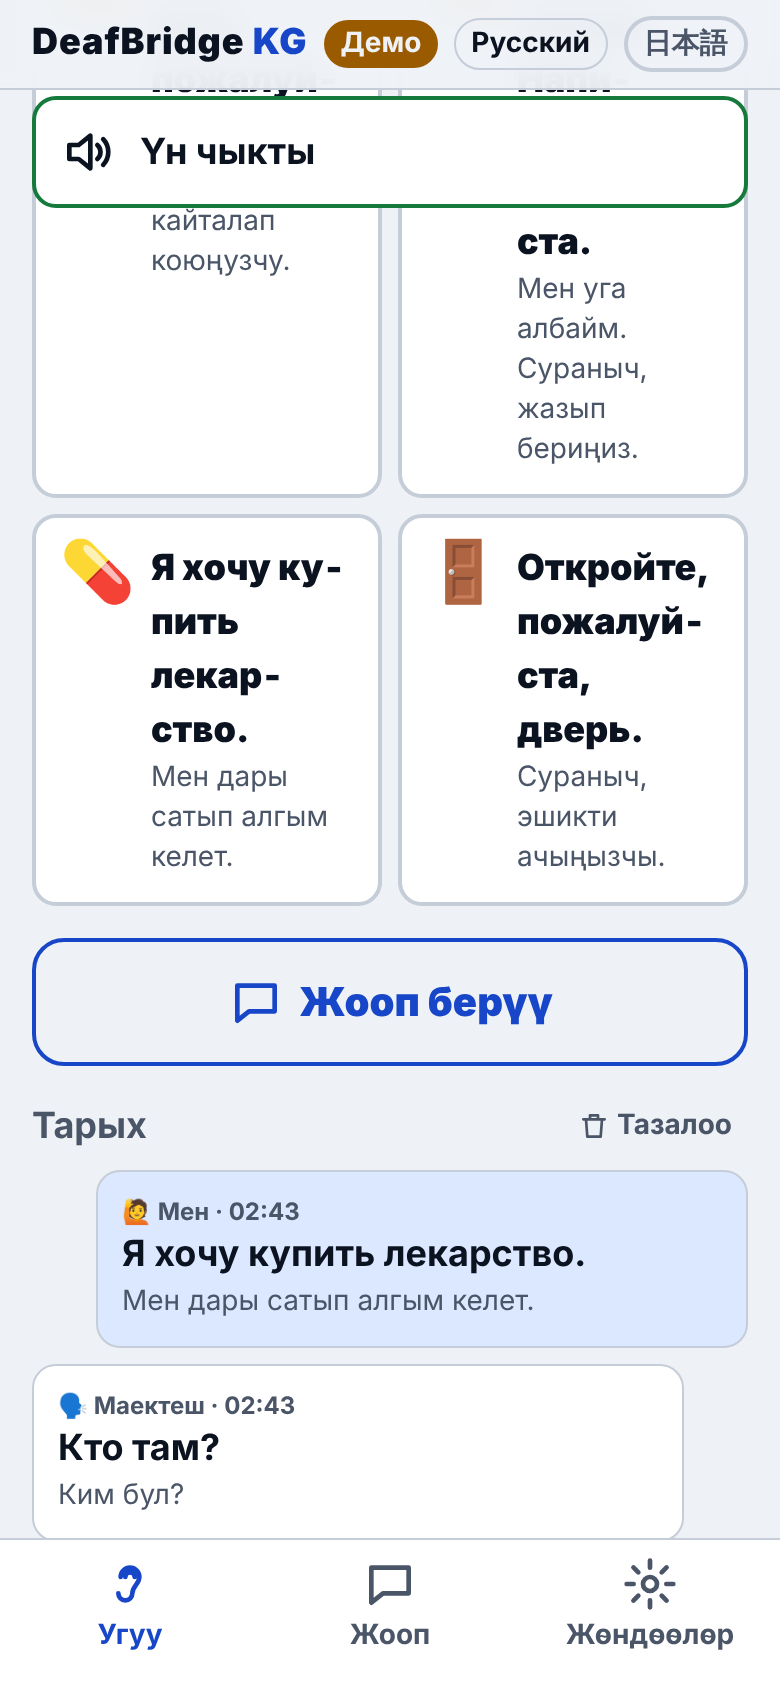
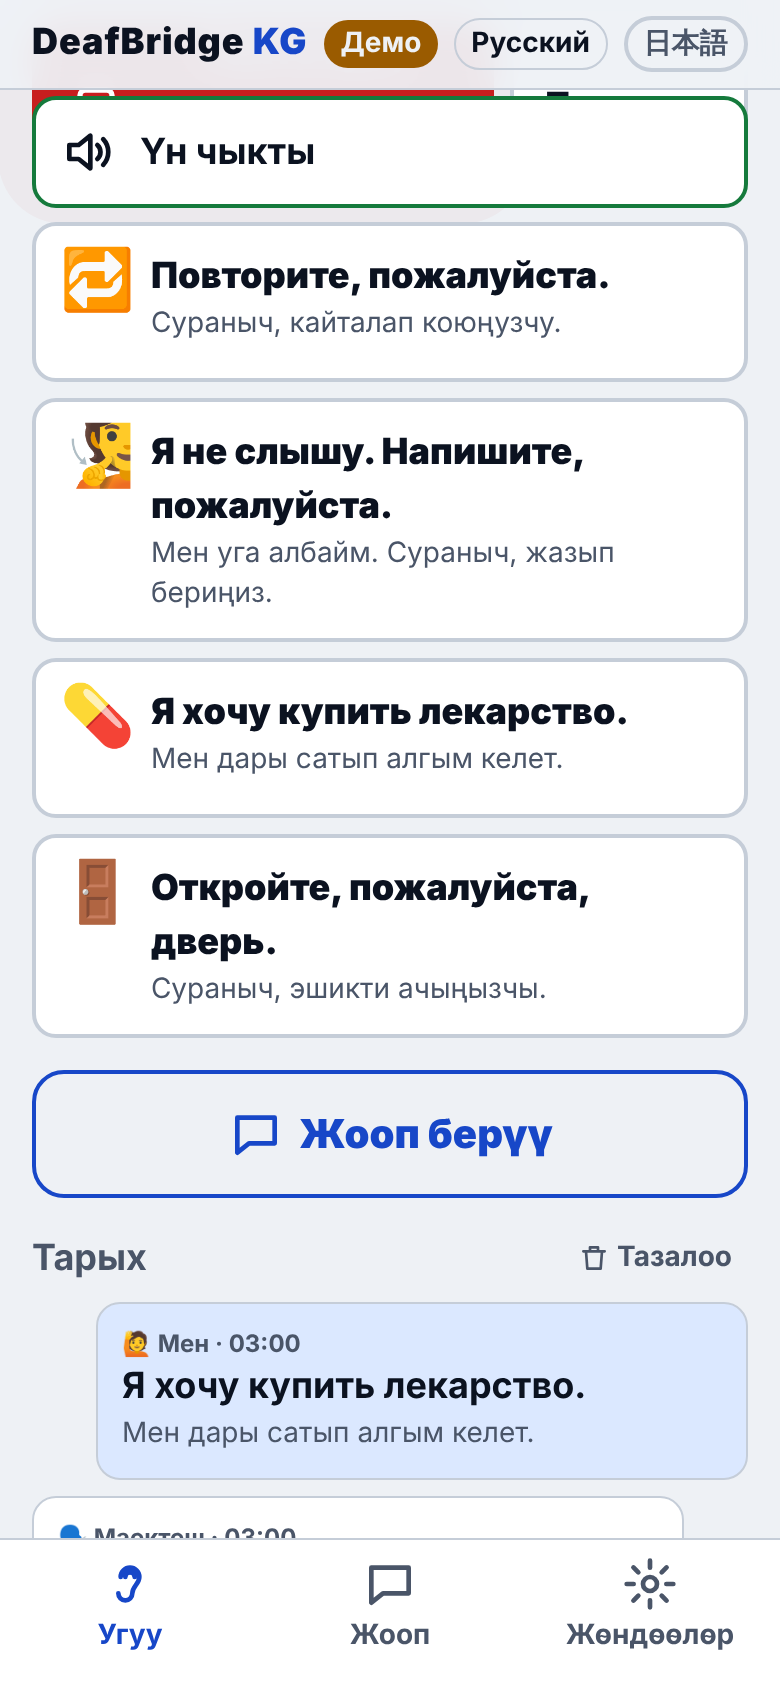
Add single-file demo build and improve phone-width readability
- scripts/build-demo.mjs bundles the real UI into one HTML file with the
  microphone and speech API replaced by a simulated listener, so the app
  can be tried in a browser without a server or microphone
- Quick replies use one column on phone-width screens; no mid-word
  hyphenation
- Theme tokens also honor an explicit data-theme attribute
- Mock sample sentences moved to a shared module

Claude-Session: https://claude.ai/code/session_01MF86TwLKCSnZg1bD2yCpDd

diff --git a/deafbridge-kg/src/demo/useDemoListener.ts b/deafbridge-kg/src/demo/useDemoListener.ts
@@ -1,0 +1,81 @@
+"use client";
+
+/**
+ * お試しページ用の疑似マイク。
+ * claude.ai 上のページではマイクが使えないため、「聞き取り中」になると
+ * 数秒ごとに「相手が話す → 話し終わる」を自動で再現する。
+ * 返り値の形は本物の useListener と同じ。
+ */
+import { useCallback, useEffect, useRef, useState } from "react";
+import type { ListenerOptions, ListenerState } from "../lib/client/useListener";
+
+export type { ListenerOptions, ListenerState };
+
+const WAIT_MS = 3000; // 相手が話し始めるまで
+const SPEAK_MS = 1800; // 相手が話している長さ
+const TICK = 80;
+
+export function useListener(opts: ListenerOptions) {
+  const [state, setState] = useState<ListenerState>("idle");
+  const [level, setLevel] = useState(0);
+  const [inSpeech, setInSpeech] = useState(false);
+  const [elapsedMs, setElapsedMs] = useState(0);
+  const optsRef = useRef(opts);
+  useEffect(() => {
+    optsRef.current = opts;
+  });
+  const timer = useRef<number | null>(null);
+  const segStart = useRef(0);
+
+  const clear = () => {
+    if (timer.current !== null) window.clearInterval(timer.current);
+    timer.current = null;
+  };
+
+  const run = useCallback(() => {
+    clear();
+    segStart.current = performance.now();
+    let spoke = false;
+    timer.current = window.setInterval(() => {
+      const t = performance.now() - segStart.current;
+      setElapsedMs(t);
+      const speaking = t > WAIT_MS && t < WAIT_MS + SPEAK_MS;
+      if (speaking && !spoke) {
+        spoke = true;
+        optsRef.current.onSpeechStart?.();
+      }
+      setInSpeech(speaking);
+      setLevel(speaking ? 0.08 + Math.random() * 0.12 : 0.0003 + Math.random() * 0.0005);
+      if (t >= WAIT_MS + SPEAK_MS + 900) {
+        optsRef.current.onSegment(new Blob(), { hadSpeech: true, durationMs: t });
+        if (optsRef.current.continuous) {
+          segStart.current = performance.now();
+          spoke = false;
+        } else {
+          clear();
+          setState("idle");
+          setLevel(0);
+        }
+      }
+    }, TICK);
+  }, []);
+
+  const start = useCallback(async () => {
+    setState("listening");
+    run();
+  }, [run]);
+
+  const stop = useCallback((send: boolean) => {
+    const wasSpeaking = performance.now() - segStart.current > WAIT_MS;
+    clear();
+    setState("idle");
+    setLevel(0);
+    setInSpeech(false);
+    setElapsedMs(0);
+    if (send && wasSpeaking) optsRef.current.onSegment(new Blob(), { hadSpeech: true, durationMs: 0 });
+  }, []);
+
+  useEffect(() => () => clear(), []);
+
+  return { state, level, threshold: 0.03, inSpeech, elapsedMs, start, stop };
+}

diff --git a/deafbridge-kg/src/demo/demo-api.ts b/deafbridge-kg/src/demo/demo-api.ts
@@ -1,0 +1,24 @@
+/**
+ * お試しページ用：サーバーを使わず、ブラウザ内でサンプル文を返す。
+ * scripts/build-demo.mjs が "@/lib/client/api" をこのファイルに差し替える。
+ */
+import { MOCK_SAMPLES } from "../lib/mock-samples";
+import type { ConvLang, StatusResponse, TranscribeError, TranscribeResult, TransLang } from "../lib/types";
+
+let index = 0;
+
+export async function fetchStatus(): Promise<StatusResponse | null> {
+  return { provider: "mock", translation: true, accessCodeRequired: false, maxSeconds: 30 };
+}
+
+export async function transcribe(
+  _wav: Blob,
+  lang: ConvLang,
+  targets: TransLang[],
+): Promise<TranscribeResult | TranscribeError> {
+  await new Promise((r) => setTimeout(r, 700)); // 通信している感じを再現
+  const s = MOCK_SAMPLES[index++ % MOCK_SAMPLES.length];
+  const translations: Partial<Record<TransLang, string>> = {};
+  for (const t of targets) if (t !== lang) translations[t] = s[t];
+  return { ok: true, text: s[lang], confidence: 0.92, alternatives: [], translations, provider: "mock", elapsedMs: 700 };
+}

diff --git a/deafbridge-kg/src/lib/server/stt.ts b/deafbridge-kg/src/lib/server/stt.ts
@@ -13,15 +13,9 @@ export type SttProvider = {
 
 // ---------------------------------------------------------------- mock
 
-/** API 未接続時のデモ用。インターフォンでよく聞かれる文を順番に返す。 */
-export const MOCK_SAMPLES: { ru: string; ky: string; ja: string }[] = [
-  { ru: "Кто там?", ky: "Ким бул?", ja: "どなたですか？" },
-  { ru: "Что вам нужно?", ky: "Сизге эмне керек?", ja: "何が必要ですか？" },
-  { ru: "Какое лекарство?", ky: "Кайсы дары?", ja: "どの薬ですか？" },
-  { ru: "Подождите минуту.", ky: "Бир мүнөт күтө туруңуз.", ja: "少々お待ちください。" },
-  { ru: "Это стоит триста сом.", ky: "Бул үч жүз сом турат.", ja: "300ソムです。" },
-  { ru: "Рецепт есть?", ky: "Рецепт барбы?", ja: "処方箋はありますか？" },
-];
+import { MOCK_SAMPLES } from "../mock-samples";
+
+export { MOCK_SAMPLES };
 
 let mockIndex = 0;
 

diff --git a/deafbridge-kg/src/components/ListenScreen.tsx b/deafbridge-kg/src/components/ListenScreen.tsx
@@ -196,7 +196,7 @@ export default function ListenScreen({
       )}
 
       {/* ---- すぐ使う返答 ---- */}
-      <div className={`grid gap-2 ${settings.fontSize === "xlarge" ? "grid-cols-1" : "grid-cols-2"}`}>
+      <div className={`grid gap-2 ${settings.fontSize === "xlarge" ? "grid-cols-1" : "grid-cols-1 min-[440px]:grid-cols-2"}`}>
         {QUICK_IDS.map((id) => {
           const p = findPhrase(id)!;
           return (
@@ -209,7 +209,7 @@ export default function ListenScreen({
               <span className="text-3xl leading-none" aria-hidden="true">
                 {p.icon}
               </span>
-              <span className="flex min-w-0 flex-col [overflow-wrap:anywhere] hyphens-auto">
+              <span className="flex min-w-0 flex-col [overflow-wrap:break-word]">
                 <span className="text-body font-black leading-tight" lang={lang}>
                   {phraseText(p, lang)}
                 </span>

diff --git a/deafbridge-kg/src/lib/mock-samples.ts b/deafbridge-kg/src/lib/mock-samples.ts
@@ -1,0 +1,9 @@
+/** API 未接続時のデモ用。インターフォンでよく聞かれる文を順番に返す。 */
+export const MOCK_SAMPLES: { ru: string; ky: string; ja: string }[] = [
+  { ru: "Кто там?", ky: "Ким бул?", ja: "どなたですか？" },
+  { ru: "Что вам нужно?", ky: "Сизге эмне керек?", ja: "何が必要ですか？" },
+  { ru: "Какое лекарство?", ky: "Кайсы дары?", ja: "どの薬ですか？" },
+  { ru: "Подождите минуту.", ky: "Бир мүнөт күтө туруңуз.", ja: "少々お待ちください。" },
+  { ru: "Это стоит триста сом.", ky: "Бул үч жүз сом турат.", ja: "300ソムです。" },
+  { ru: "Рецепт есть?", ky: "Рецепт барбы?", ja: "処方箋はありますか？" },
+];

diff --git a/deafbridge-kg/src/app/globals.css b/deafbridge-kg/src/app/globals.css
@@ -20,7 +20,7 @@
 }
 
 @media (prefers-color-scheme: dark) {
-  :root {
+  :root:not([data-theme="light"]) {
     --bg: #070b14;
     --surface: #121a2a;
     --surface-2: #1d2740;
@@ -36,7 +36,27 @@
     --me: #142a55;
     --ok: #4ade80;
     --warn: #fbbf24;
+    color-scheme: dark;
   }
+}
+
+:root[data-theme="dark"] {
+  --bg: #070b14;
+  --surface: #121a2a;
+  --surface-2: #1d2740;
+  --fg: #f5f7fb;
+  --muted: #a9b4c7;
+  --border: #2c3a57;
+  --accent: #5b8cff;
+  --accent-fg: #06102a;
+  --rec: #ff5a5a;
+  --rec-fg: #1a0000;
+  --them: #2a2306;
+  --them-border: #f5c400;
+  --me: #142a55;
+  --ok: #4ade80;
+  --warn: #fbbf24;
+  color-scheme: dark;
 }
 
 @theme inline {

diff --git a/deafbridge-kg/src/components/DeafBridgeApp.tsx b/deafbridge-kg/src/components/DeafBridgeApp.tsx
@@ -50,7 +50,11 @@ export default function DeafBridgeApp() {
     setOnline(navigator.onLine);
     fetchStatus().then(setStatus);
     preloadAudioManifest();
-    if ("serviceWorker" in navigator && process.env.NODE_ENV === "production") {
+    if (
+      "serviceWorker" in navigator &&
+      process.env.NODE_ENV === "production" &&
+      process.env.NEXT_PUBLIC_STATIC_DEMO !== "1"
+    ) {
       navigator.serviceWorker.register("/sw.js", { scope: "/" }).catch(() => {});
     }
     const on = () => setOnline(true);

diff --git a/deafbridge-kg/src/components/ReplyScreen.tsx b/deafbridge-kg/src/components/ReplyScreen.tsx
@@ -228,7 +228,7 @@ function PhraseRow({
         <span className="w-12 shrink-0 text-center text-4xl leading-none" aria-hidden="true">
           {icon}
         </span>
-        <span className="flex min-w-0 flex-col [overflow-wrap:anywhere] hyphens-auto">
+        <span className="flex min-w-0 flex-col [overflow-wrap:break-word]">
           <span className="text-reply font-black" lang={textLang}>
             {text}
           </span>

diff --git a/deafbridge-kg/src/demo/entry.tsx b/deafbridge-kg/src/demo/entry.tsx
@@ -1,0 +1,4 @@
+import { createRoot } from "react-dom/client";
+import DeafBridgeApp from "../components/DeafBridgeApp";
+
+createRoot(document.getElementById("root")!).render(<DeafBridgeApp />);

diff --git a/deafbridge-kg/src/demo/demo-audio-convert.ts b/deafbridge-kg/src/demo/demo-audio-convert.ts
@@ -1,0 +1,4 @@
+/** お試しページ用：録音がないので変換もしない */
+export async function blobToWav16k(blob: Blob): Promise<Blob> {
+  return blob;
+}
